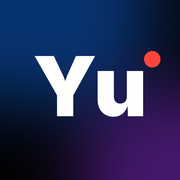
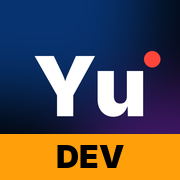
DEV: окрема іконка застосунку «YuVi DEV»; банер «Додай YuVi на екран»
Claude-Session: https://claude.ai/code/session_01F6gAAJm55jxou5RMBsrxfW

Changed region(s): [[0.0, 0.7222, 1.0, 1.0]]

diff --git a/dev/index.html b/dev/index.html
@@ -565,6 +565,12 @@ body{background:var(--p-bg)}
 @media (prefers-reduced-motion:reduce){#yvbusy .sp{animation:none}#yvbusy .ar{transition:none}}
 .fmts>.fmt{padding:10px 12px;gap:12px;border-radius:20px}.fmts>.fmt .fprev{width:42px;height:54px;border-radius:10px}.fmts>.fmt canvas.fprev{width:42px;height:74px}
 .fmts>.fmt .fn{font-size:16px}.fmts>.fmt .fs{font-size:12.5px;margin-top:1px}.fmts>.fmt .fwip,.fmts>.fmt .fdev,.fmts>.fmt .ffree{margin-top:4px;padding:2px 8px;font-size:10.5px}.fmts>.fmt .chev{width:34px;height:34px}
+#yvinst{position:fixed;left:10px;right:10px;bottom:calc(10px + env(safe-area-inset-bottom,0px));z-index:90;display:flex;align-items:center;gap:10px;padding:10px 10px 10px 12px;border-radius:18px;background:rgba(28,28,32,.94);border:1px solid rgba(255,255,255,.14);-webkit-backdrop-filter:blur(16px);backdrop-filter:blur(16px);box-shadow:0 18px 40px -12px rgba(0,0,0,.7);color:#f5f5f7;font-family:var(--pfont,system-ui);transform:translateY(140%);transition:transform .35s cubic-bezier(.3,.9,.3,1)}
+#yvinst.in{transform:none}#yvinst img{border-radius:10px;flex:none}#yvinst div{flex:1;min-width:0;display:grid}#yvinst b{font-size:14px}#yvinst span{font-size:12px;color:#a1a1aa}
+#yvinst .yi-go{border:0;border-radius:999px;padding:9px 14px;background:#fff;color:#0b0b0d;font:700 13px var(--pfont,system-ui)}#yvinst .yi-x{width:30px;height:30px;border-radius:50%;border:0;background:rgba(255,255,255,.08);color:#a1a1aa;font-size:16px}
+#yviosh{position:fixed;inset:0;z-index:95;background:rgba(0,0,0,.55);display:flex;flex-direction:column;justify-content:flex-end;align-items:center;padding:0 16px calc(70px + env(safe-area-inset-bottom,0px));font-family:var(--pfont,system-ui)}
+#yviosh .b{background:#1c1c20;color:#f5f5f7;border-radius:18px;padding:16px 18px;max-width:360px;border:1px solid rgba(255,255,255,.14)}#yviosh ol{margin:8px 0 12px;padding-left:20px;display:grid;gap:6px;font-size:14px}#yviosh .sh{display:inline-grid;place-items:center;width:22px;height:22px;border-radius:6px;background:rgba(10,132,255,.25);color:#5ac8fa}
+#yviosh button{width:100%;border:0;border-radius:12px;padding:11px;background:#fff;color:#0b0b0d;font:700 15px var(--pfont,system-ui)}#yviosh .ar{font-style:normal;font-size:34px;color:#fff;margin-top:8px;animation:yvbob 1s ease-in-out infinite}@keyframes yvbob{50%{transform:translateY(8px)}}
 .fwip{align-self:flex-start;margin-top:6px;font-size:11.5px;font-weight:600;padding:3px 9px;border-radius:999px;background:rgba(255,255,255,.1);color:#d4d4d8}.fmt.wipc .fn,.fmt.wipc .fs,.fmt.wipc .fprev{opacity:.6}
 .fdev{align-self:flex-start;margin-top:6px;font-size:11.5px;font-weight:600;padding:3px 9px;border-radius:999px;background:color-mix(in srgb,#e8a33d 16%,transparent);color:#b5781c}
 .fmt.dev{border-style:dashed}.fdevnote{margin:14px 0 10px;padding:10px 12px;border-radius:12px;background:color-mix(in srgb,#e8a33d 12%,transparent);font-size:13.5px;color:var(--p-text)}
@@ -1058,13 +1064,13 @@ body{background:radial-gradient(900px 640px at 8% -12%,var(--yv-glow-1),transpar
   <div class="rfoot"><button class="pbtn" id="prev" type="button">← Назад</button><button class="pbtn next" id="next" type="button">Далі →</button></div>
 </div>
 
-<link rel="manifest" href="/manifest.webmanifest">
+<link rel="manifest" href="/dev/manifest.webmanifest">
 <link rel="icon" type="image/png" sizes="32x32" href="/favicon-32.png">
-<link rel="apple-touch-icon" href="/apple-touch-icon.png">
+<link rel="apple-touch-icon" href="/dev/apple-touch-icon.png">
 <meta name="theme-color" content="#050507">
 <meta name="apple-mobile-web-app-capable" content="yes">
 <meta name="mobile-web-app-capable" content="yes">
-<meta name="apple-mobile-web-app-title" content="YuVi">
+<meta name="apple-mobile-web-app-title" content="YuVi DEV">
 <meta name="apple-mobile-web-app-status-bar-style" content="black-translucent">
 <script>window.YV_DEV=true;</script>
 <script>window.PROBKA_CONFIG={url:"https://zgkrtlpgozqjrmxbksld.supabase.co",key:"sb_publishable_LN1adXgbzo154fccPDcMpA_f5L9-rlm",imageGen:true};</script>
@@ -2933,6 +2939,22 @@ function installSheet(back){ const ua=navigator.userAgent, ios=/iPhone|iPad|iPod
    <button class="big" type="button" id="instok">${back?"Назад":"Зрозуміло"}</button>`,"plat");
   BS.querySelector("#instgo")?.addEventListener("click",async()=>{ const e=INSTALL_EVT; INSTALL_EVT=null; try{ await e.prompt(); await e.userChoice; }catch(x){} closeSheet(); });
   BS.querySelector("#instok").onclick=()=>back?back():closeSheet(); }
+// Банер «Додай YuVi на екран»: з другого візиту або через 25 с, не частіше ніж раз на 7 днів; не показується в застосунку і в Instagram/Telegram
+(function(){ if(IS_APP()) return; const ua=navigator.userAgent; if(/Instagram|FBAN|FBAV|TikTok|Telegram/i.test(ua)) return; if(!/iPhone|iPad|iPod|Android/i.test(ua)) return;
+  let n=0, until=0; try{ n=+(localStorage.getItem("yvVisits")||0)+1; localStorage.setItem("yvVisits",n); until=+(localStorage.getItem("yvInstNo")||0); }catch(e){}
+  if(Date.now()<until) return;
+  const show=()=>{ if(document.getElementById("yvinst")||IS_APP()) return; if(!reader.hidden) return setTimeout(show,15000);
+    const ios=/iPhone|iPad|iPod/.test(ua), d=document.createElement("div"); d.id="yvinst";
+    d.innerHTML=`<img src="/apple-touch-icon.png" alt="" width="40" height="40"><div><b>YuVi на екрані телефону</b><span>Відкривай одним дотиком, як застосунок</span></div><button type="button" class="yi-go">Додати</button><button type="button" class="yi-x" aria-label="Закрити">×</button>`;
+    document.body.appendChild(d); requestAnimationFrame(()=>d.classList.add("in"));
+    const close=days=>{ d.classList.remove("in"); setTimeout(()=>d.remove(),300); try{ localStorage.setItem("yvInstNo",Date.now()+days*864e5); }catch(e){} };
+    d.querySelector(".yi-x").onclick=()=>close(7);
+    d.querySelector(".yi-go").onclick=async()=>{ if(INSTALL_EVT){ const e=INSTALL_EVT; INSTALL_EVT=null; try{ await e.prompt(); const r=await e.userChoice; close(r?.outcome==="accepted"?3650:7); }catch(x){ close(7); } return; }
+      close(7); if(ios) iosHint(); else installSheet(); }; };
+  if(n>=2) setTimeout(show,4000); else setTimeout(show,25000);
+})();
+function iosHint(){ const h=document.createElement("div"); h.id="yviosh"; h.innerHTML=`<div class="b"><b>Як додати на екран</b><ol><li>Натисни <span class="sh">⬆</span> «Поділитися» внизу екрана</li><li>Прогорни і обери <b>«На початковий екран»</b></li><li>Натисни <b>«Додати»</b></li></ol><button type="button">Зрозуміло</button></div><i class="ar" aria-hidden="true">↓</i>`;
+  document.body.appendChild(h); h.querySelector("button").onclick=()=>h.remove(); h.onclick=e=>{ if(e.target===h) h.remove(); }; }
 // ярлики з іконки (затиснути іконку на Android): ?do=share | qr | own
 (function(){ let d=null; try{ d=new URLSearchParams(location.search).get("do"); }catch(e){} if(!d) return;
   try{ const u=new URL(location.href); u.searchParams.delete("do"); history.replaceState(null,"",u); }catch(e){}
